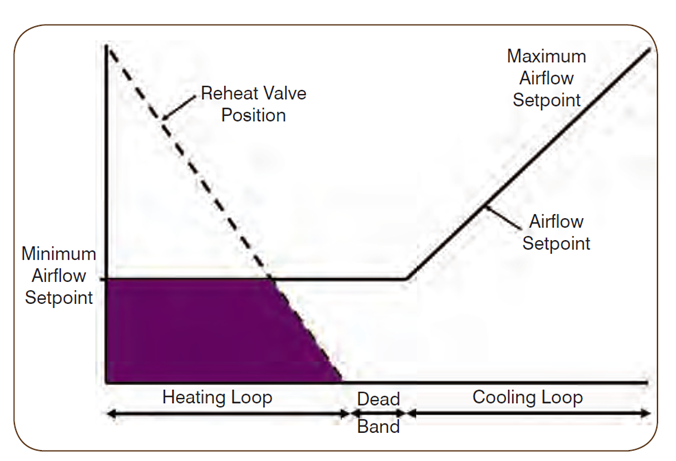
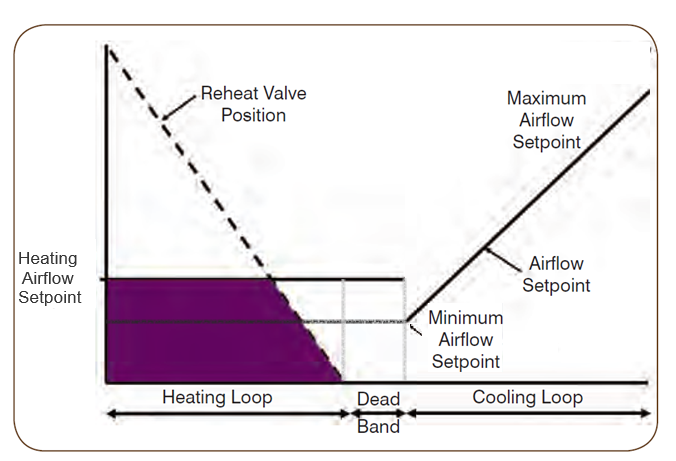
Revise the description of control logic
Document min OA damper set point of 0.3
Document VAV box min cooling airflow set point (0.3 of design) and min/max heating airflow set point (0.5 of design)
Fix description and figure of VAV box logic to include that the heating airflow set point different from min cooling airflow set point.

diff --git a/testcases/multizone_office_complex_air/doc/index.html b/testcases/multizone_office_complex_air/doc/index.html
@@ -621,22 +621,19 @@
 </p>
 <p>
     The VAV reheat is controlled based on the
-    "single maximum VAV reheat control logic".
+    "single maximum VAV reheat control logic". Note that the heating airflow setpoint differs from the zone/cooling minimum airflow setpoint.
 </p>
-    <li>
-    When the Zone State is cooling, the cooling-loop output shall be mapped to the active
-    airflow setpoint from the cooling minimum endpoint to the cooling maximum endpoint.
-    Heating coil is disabled.
-    </li>
-    <li>
-    When the Zone State is deadband, the active airflow setpoint shall be the minimum
-    endpoint. Heating coil is disabled.
-    </li>
-    <li>
-    When the Zone State is heating, the active airflow setpoint shall be the minimum endpoint.
-    The reheat valve position shall be mapped to the supply air temperature setpoint from the
-    heating minimum endpoint to the heating maximum endpoint.
-    </li>
+	<li>
+	When the Zone State is <b>Cooling</b>, the cooling-loop output is mapped to the active airflow setpoint, ranging from the cooling minimum (0.3 of the design flow rate) to the cooling maximum.  
+	The heating coil remains disabled.
+	</li>
+	<li>  
+	When the Zone State is <b>Deadband</b>, the active airflow setpoint is set to the zone minimum (0.3 of the design flow rate), and the heating coil remains disabled.
+	</li>
+	<li>
+	When the Zone State is <b>Heating</b>, the active airflow setpoint is set to the constant heating setpoint (0.5 of the design flow rate).  
+	The reheat valve position is modulated to maintain the supply air temperature setpoint, varying between the heating minimum and maximum endpoints.
+	</li>
 <p align=\"center\">
     <img alt=\"SingleMax.\"
     src="images/SingleMax.png" width=300>
@@ -665,10 +662,15 @@
     <i>AHU duct static pressure control</i>
 </p>
 <p>
-    Supply fan speed is controlled by a PI controller to maintain duct static pressure
-    (DSP) at setpoint when the fan is proven ON. It takes the static pressure measurements
+    The supply fan speed is regulated by a PI controller to maintain the duct static pressure at its setpoint of 400 Pa (or 1.61 in. w.c.). 
+	It takes the static pressure measurements
     and setpoints as inputs. It takes the supply fan speed as the output. The AHU return
-    fan speed is set as a constant ratio (0.9) of the supply fan speed  .
+    fan speed is set as a constant ratio (0.9) of the supply fan speed.
+</p>
+    During unoccupied hours, the night-cycle control is activated. 
+	If any zone air temperature falls outside the setback temperature bounds, the fans are switched on to bring the zone air temperature back within the allowable range
+<p>
+
 </p>
 <p>
   <i>AHU supply air temperature control</i>
@@ -686,16 +688,14 @@
     to meet the cooling load when outdoor conditions are favorable.
 </p>
 <p>
-    Outdoor air damper position is controlled by a PI controller to maintain the mixed air
-    temperature at setpoint. It takes the mixed and outdoor air temperature measurements,
-    as well as the mixed air temperature setpoints as inputs. It takes the outdoor air damper
-     position as the output. The return air damper are interlocked with the outdoor air damper
-      while exhausted air damper share the same opening position with the outdoor air damper.
+	The outdoor air damper position is regulated by a PI controller to maintain the mixed air temperature at its setpoint, with a minimum damper position of 0.3. 
+	The controller uses the mixed air temperature, outdoor air temperature, and the mixed air temperature setpoint as inputs. 
+	It output is the commanded outdoor air damper position.
+	The return air damper are interlocked with the outdoor air damper while exhausted air damper share the same opening position with the outdoor air damper. 
 </p>
 <p>
     On top of that, an economizer control based on the fixed dry-bulb outdoor air
-    temperature-based is adopted. The economizer higher temperature limit is set as
-    21 ℃ according to ASHRAE 90.1-2019 for Climate Zone 5A.
+    temperature-based is adopted. The economizer higher temperature limit is set as 15.58 degC (60 degF).
 </p>
 <h4>Water-side system control</h4>
 <p align=\"center\">
